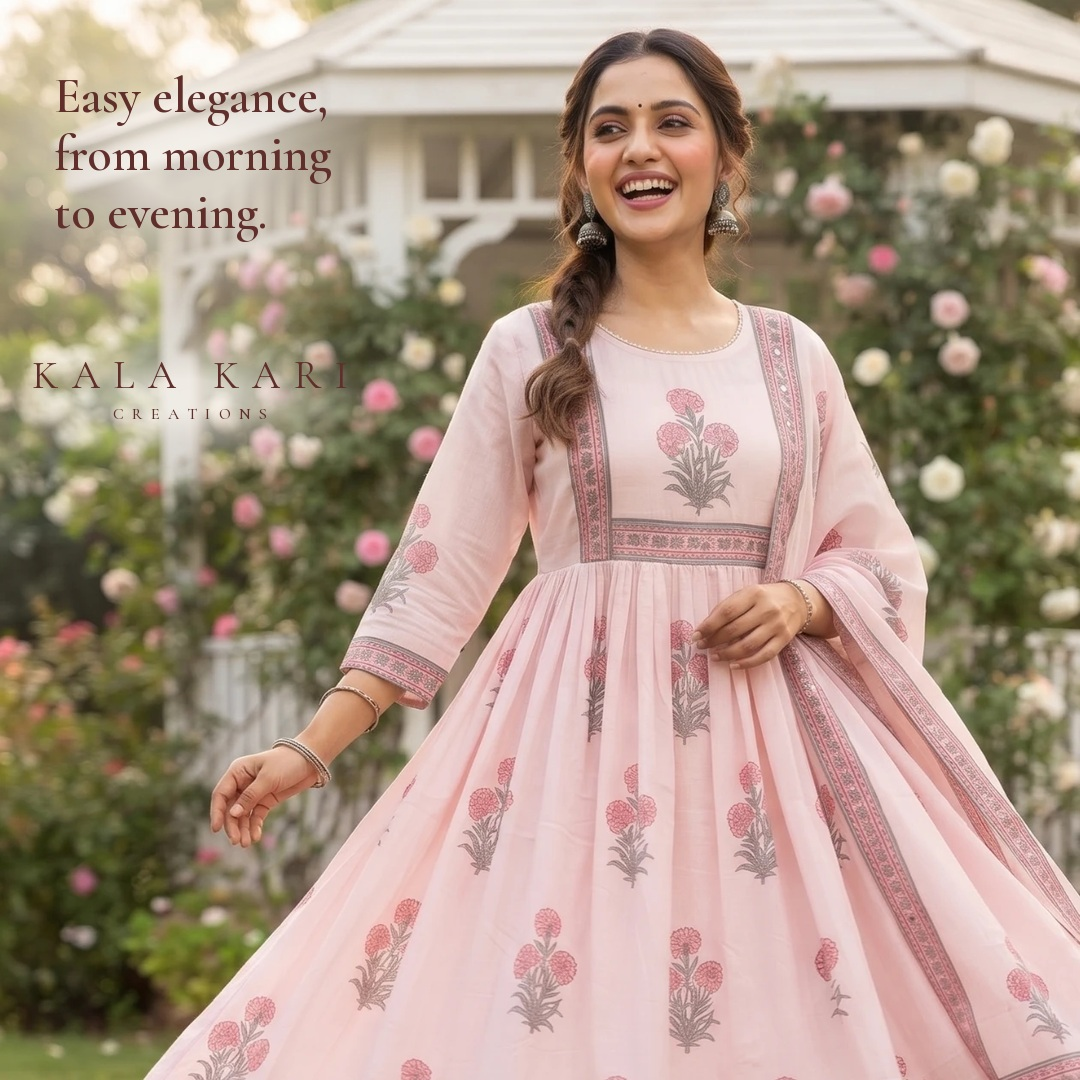
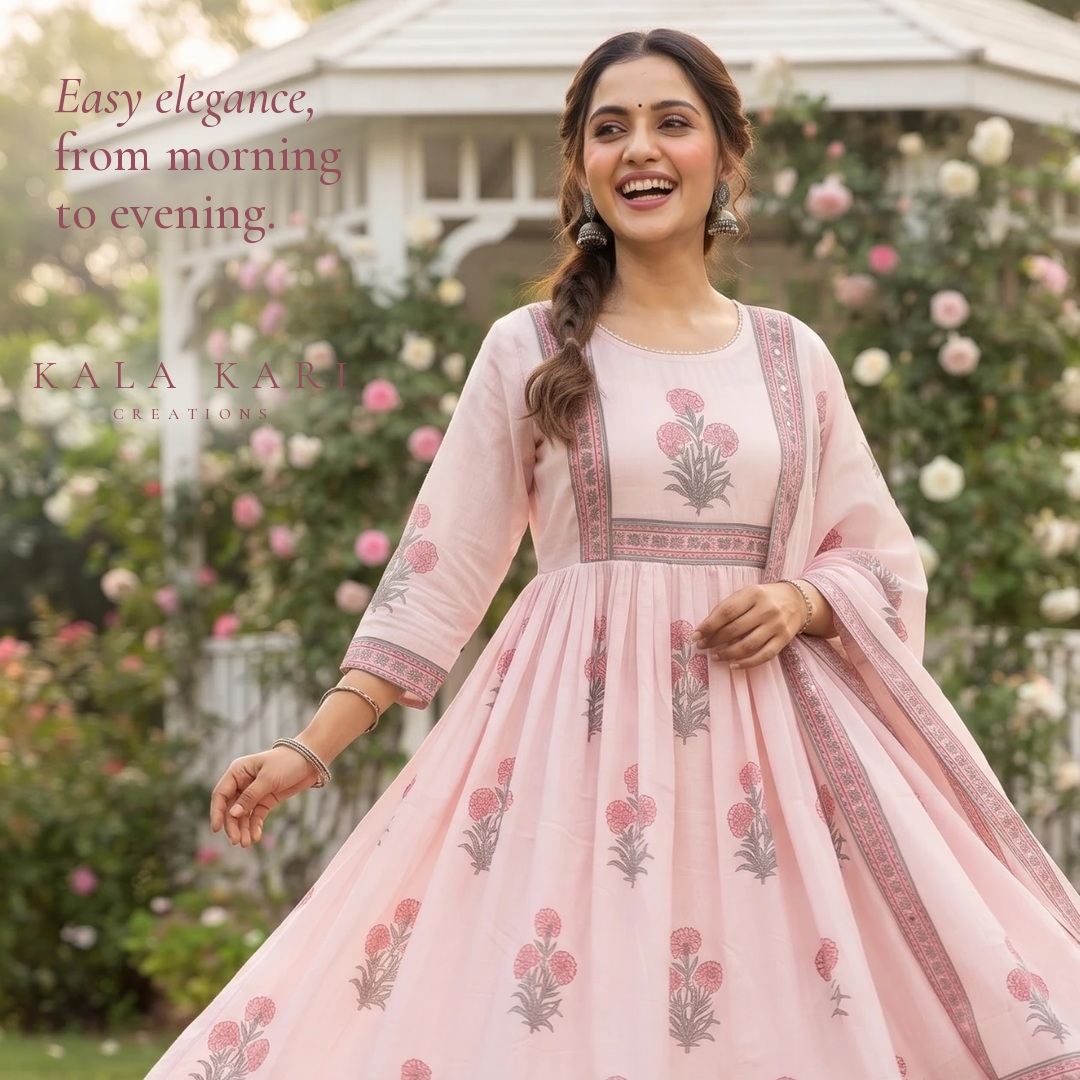
Everyday edit carousel: text colours taken from each photo, lighter serif
Claude-Session: https://claude.ai/code/session_01LZv7UTnsZcwjx4RXmrtg3u

diff --git a/marketing/posts/everyday_edit_carousel.py b/marketing/posts/everyday_edit_carousel.py
@@ -28,6 +28,10 @@ from PIL import Image, ImageDraw, ImageEnhance, ImageFont
 S = 1080
 CREAM = (254, 240, 234)
 MAROON = (96, 47, 44)
+WOOD = (104, 66, 54)        # slide 1: the carved door's and the carved table's warm brown
+WOOD_SOFT = (138, 98, 82)
+ROSE = (150, 78, 92)        # slide 2: a deeper shade of the anarkali's block-printed flowers
+ROSE_SOFT = (128, 104, 96)
 
 
 def font(fonts, fam, w, size, style="normal"):
@@ -92,32 +96,33 @@ def brand(d, cx, y, fonts, fill, size):
 def slide1(fonts, ph):
     # landscape photo: square crop with the model on the left half
     im = crop(ph, "1-ajrakh-seated", (.335, 0, 1.0, 1.0), S, S)
-    im = haze(im, 840, 270, 240, 250, .55)
+    im = haze(im, 806, 260, 240, 240, .38)
     img = im.convert("RGBA")
     d = ImageDraw.Draw(img)
-    cx = 838
-    f = font(fonts, "cormorant-garamond", 500, 72, "italic")
-    d.text((cx, 140), "Made by Hand,", font=f, fill=MAROON, anchor="ms")
-    d.text((cx, 218), "Made for You", font=f, fill=MAROON, anchor="ms")
-    fs = font(fonts, "jost", 500, 21)
-    spaced(d, (cx, 282), "HANDCRAFTED ETHNICWEAR", fs, MAROON, 4)
-    spaced(d, (cx, 316), "FOR EVERY DAY", fs, MAROON, 4)
-    brand(d, cx, 418, fonts, MAROON, 42)
+    cx = 806
+    f = font(fonts, "cormorant-garamond", 400, 76, "italic")
+    d.text((cx, 140), "Made by Hand,", font=f, fill=WOOD, anchor="ms")
+    d.text((cx, 220), "Made for You", font=f, fill=WOOD, anchor="ms")
+    fs = font(fonts, "jost", 400, 20)
+    spaced(d, (cx, 284), "HANDCRAFTED ETHNICWEAR", fs, WOOD_SOFT, 4.5)
+    spaced(d, (cx, 318), "FOR EVERY DAY", fs, WOOD_SOFT, 4.5)
+    brand(d, cx, 396, fonts, WOOD, 40)
     return img
 
 
 def slide2(fonts, ph):
     # portrait photo: a square from the top-left part puts the model right of centre
     im = crop(ph, "2-pink-anarkali", (0, .02, .84, .65), S, S)
-    im = haze(im, 190, 165, 250, 170, .75)
-    im = haze(im, 190, 395, 190, 80, .75)
+    im = haze(im, 190, 165, 250, 170, .55)
+    im = haze(im, 190, 395, 190, 80, .55)
     img = im.convert("RGBA")
     d = ImageDraw.Draw(img)
-    f = font(fonts, "cormorant-garamond", 600, 50)
-    d.text((54, 112), "Easy elegance,", font=f, fill=MAROON, anchor="ls")
-    d.text((54, 170), "from morning", font=f, fill=MAROON, anchor="ls")
-    d.text((54, 228), "to evening.", font=f, fill=MAROON, anchor="ls")
-    brand(d, 190, 388, fonts, MAROON, 40)
+    f = font(fonts, "cormorant-garamond", 500, 52)
+    fi = font(fonts, "cormorant-garamond", 500, 52, "italic")
+    d.text((54, 112), "Easy elegance,", font=fi, fill=ROSE, anchor="ls")
+    d.text((54, 170), "from morning", font=f, fill=ROSE, anchor="ls")
+    d.text((54, 228), "to evening.", font=f, fill=ROSE, anchor="ls")
+    brand(d, 190, 388, fonts, ROSE, 40)
     return img
 
 
